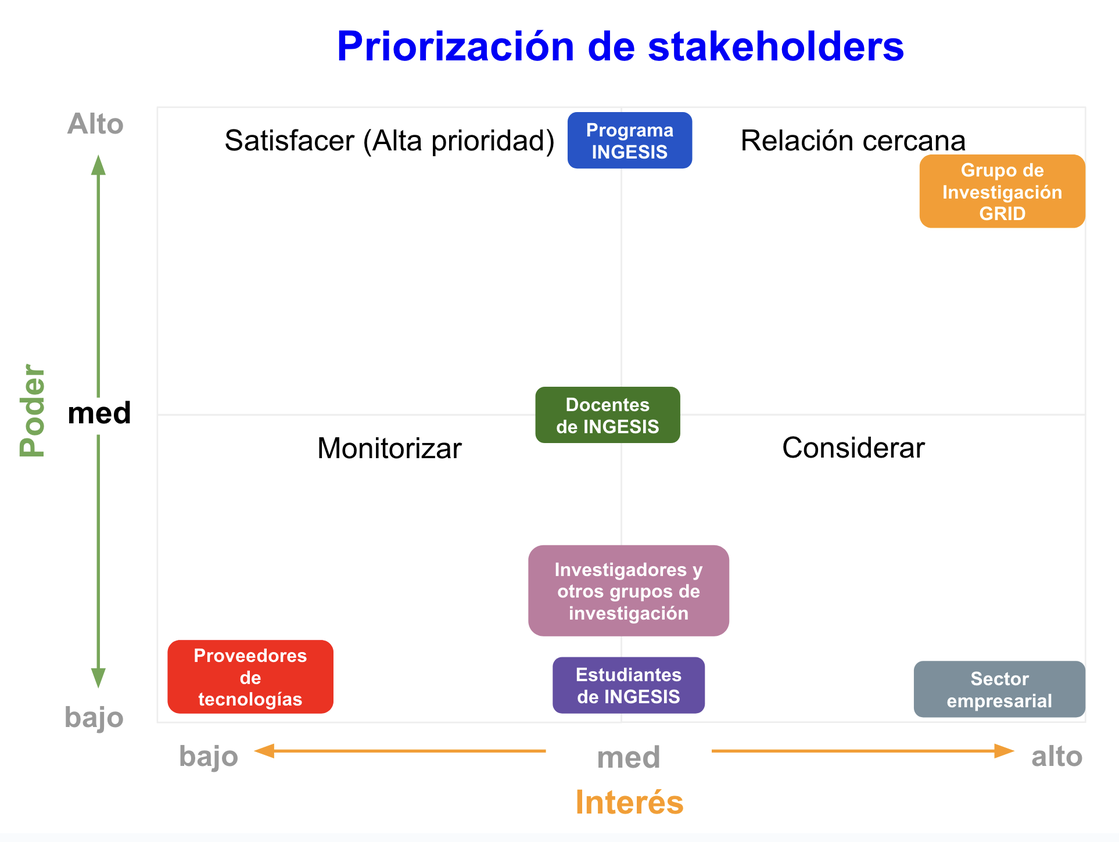
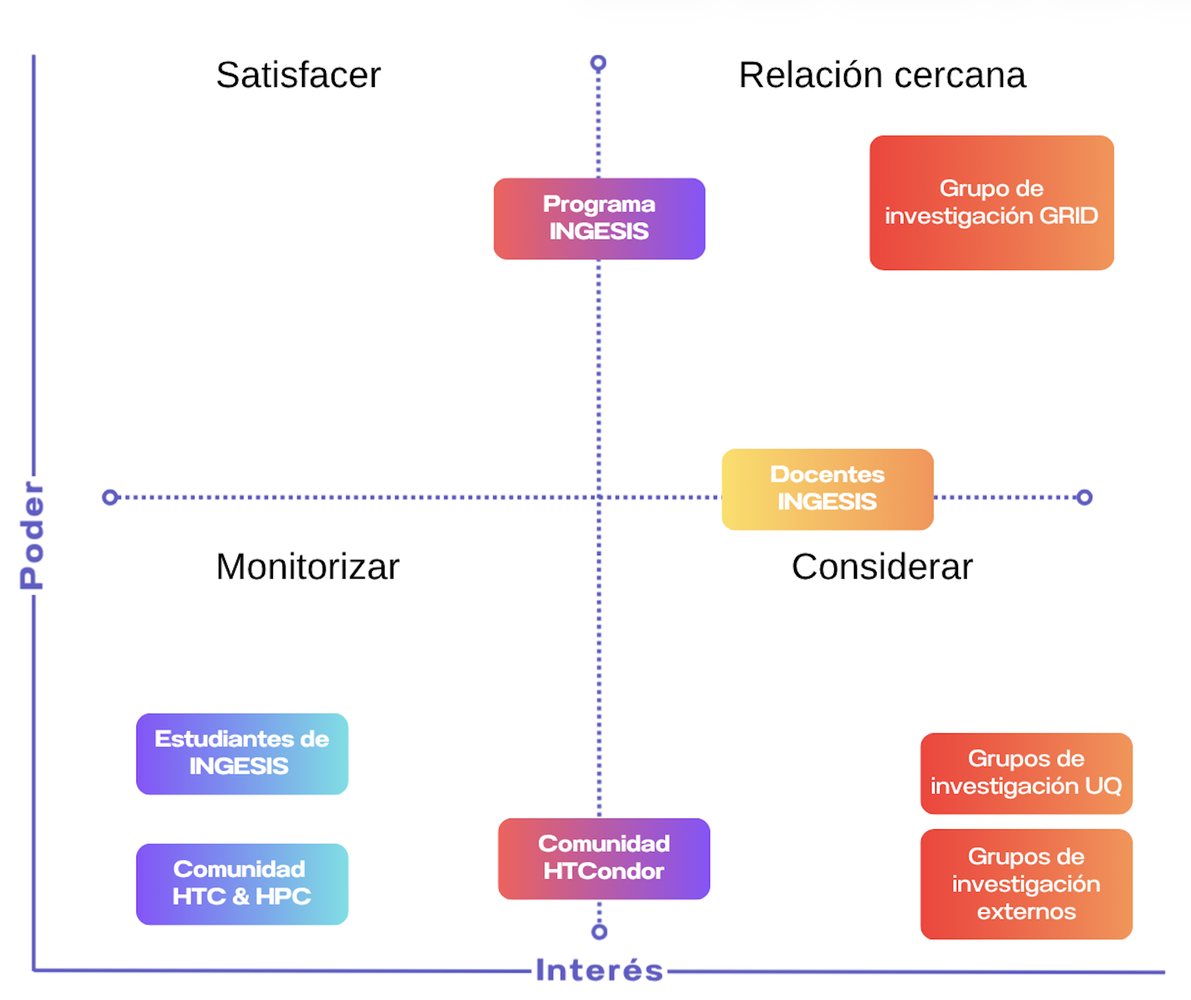
Adelantos en caracterización del GRID

diff --git a/capitulos/desarrolloMetodologico/caracterizacionGRID.tex b/capitulos/desarrolloMetodologico/caracterizacionGRID.tex
@@ -1,11 +1,24 @@
 \ChapterImageStar[cap:caracterizacionGRID]{Caracterización del GRID}{./images/fondo.png}\label{cap:caracterizacionGRID}
 \mbox{}\\
-El Grupo de Investigación en Redes, Información y Distribución (\GRID) de la Universidad del Quindío se enmarca en los objetivos misionales de la institución: educación, investigación y extensión. Su propósito central es impulsar el desarrollo a través de proyectos de investigación aplicada, formación académica y transferencia de conocimiento. En particular, el \GRID\ busca ofrecer servicios tecnológicos avanzados a la comunidad académica, con énfasis en los estudiantes de Ingeniería de Sistemas y Computación, quienes encuentran en este grupo un espacio de formación e innovación en temas de infraestructura, software y tecnologías emergentes.\\
-La caracterización del \GRID\ resulta esencial para comprender su estructura, capacidades y necesidades en relación con la adopción de tecnologías de virtualización basadas en contenedores (\VBC). A continuación, se presenta un análisis de los diferentes aspectos que definen el contexto institucional y tecnológico del grupo.
+\noindent
+El Grupo de Investigación en Redes, Información y Distribución (\GRID) de la Universidad del Quindío se enmarca en los objetivos misionales de la institución: educación, investigación y extensión. Uno del los intereses particulares del \GRID es ofrecer servicios tecnológicos avanzados a la comunidad académica, con énfasis en los estudiantes de Ingeniería de Sistemas y Computación, quienes encuentran en este grupo un espacio de formación e innovación en temas de infraestructura, ingeniería de software y tecnologías emergentes.\\
+La caracterización del \GRID\ resulta esencial para comprender su estructura, capacidades y necesidades en relación con la expansión de un nuevo universo HTCondor. A continuación, se presenta un análisis de los diferentes aspectos que definen el contexto institucional y tecnológico del grupo.
 
 \section{Análisis de stakeholders del GRID}
-Con el fin de identificar los actores internos y externos que influyen en el desarrollo de las actividades del grupo, se realizó un análisis de \textit{stakeholders}. Este ejercicio permitió reconocer los diferentes intereses, roles y niveles de influencia que cada actor tiene en relación con la posible implementación de una solución de virtualización por contenedores. Los principales \textit{stakeholders} identificados incluyen: investigadores del grupo, estudiantes de pregrado y posgrado, docentes de la Facultad de Ingeniería, y en un nivel más amplio, la comunidad académica de la Universidad del Quindío.\\
-La tabla~\ref{tab:stakeholders} presenta el análisis de los principales interesados en la adopción de tecnologías de virtualización dentro del contexto institucional. Se identifican actores internos y externos, especificando su rol, el tipo de relación con el proyecto, el nivel de impacto esperado, así como su poder de influencia, interés y compromiso frente a la iniciativa. Este análisis permite reconocer que el Grupo de Investigación \GRID\ constituye el beneficiario principal y el decisor estratégico, mientras que los docentes y estudiantes de Ingeniería de Sistemas representan usuarios clave y finales que validarán la utilidad de la solución en actividades académicas y de investigación. A nivel institucional, el programa de ingeniería de sistemas y computación actúa como facilitador de recursos y lineamientos, mientras que los proveedores de tecnología aportan las herramientas de virtualización requeridas. De forma complementaria, los investigadores externos y otros grupos de investigación pueden beneficiarse indirectamente de los resultados, y el sector empresarial se perfila como un potencial socio estratégico si percibe ventajas competitivas en la solución.
+\noindent
+Con el fin de identificar los actores internos y externos que influyen en el desarrollo de las actividades del grupo, se realizó un análisis de \textit{stakeholders}. Este ejercicio permitió reconocer los diferentes intereses, roles y niveles de influencia que cada actor tiene en relación con la expansión de un nuevo universo HTCondor. Los principales \textit{stakeholders} identificados incluyen: investigadores del grupo, estudiantes de pregrado y posgrado, docentes de la Facultad de Ingeniería, y en un nivel más amplio, la comunidad académica de la Universidad del Quindío.
+\\
+\noindent
+La tabla~\ref{tab:stakeholders} presenta el análisis de los principales interesados en la expansión de los universos HTCondor dentro del contexto institucional. Se identifican actores internos y externos, especificando su rol, el tipo de relación con el proyecto, el nivel de impacto esperado, así como su poder de influencia, interés y compromiso frente a la iniciativa.
+
+El análisis de interesados revela una estructura compleja de actores con distintos niveles de influencia y compromiso frente al proyecto. El Grupo de Investigación GRID emerge como el interesado crítico, concentrando simultáneamente el mayor impacto, poder de influencia, interés y compromiso. Esta posición central le otorga un rol determinante como beneficiario principal y tomador de decisiones, lo que subraya la necesidad de mantener una comunicación estrecha y continua con este grupo para asegurar la alineación del proyecto con sus expectativas estratégicas y operativas.
+
+Los docentes de Ingeniería de Sistemas y los investigadores locales y externos constituyen el segundo nivel de importancia, caracterizándose por un alto interés en la solución y un potencial significativo como usuarios finales. Aunque su poder de decisión es limitado, su adopción efectiva de la tecnología será fundamental para validar el éxito del proyecto. Este segmento requiere especial atención en términos de usabilidad, documentación y capacitación, dado que su compromiso está condicionado a la utilidad práctica y los beneficios tangibles que puedan obtener. La diferencia principal entre ambos grupos radica en que los investigadores externos representarían el segmento de usuarios más activo e intensivo de la infraestructura.
+
+El Programa de Ingeniería de Sistemas y Computación desempeña un rol estratégico como facilitador institucional con alto poder de influencia, particularmente en la provisión de recursos y la posibilidad de escalar la solución hacia otros programas académicos. Sin embargo, su compromiso relativamente bajo sugiere que será necesario demostrar claramente el valor estratégico e institucional del proyecto para asegurar su respaldo sostenido. Por otro lado, los estudiantes de pregrado presentan bajo impacto, poder e interés debido a la naturaleza especializada de la computación distribuida en el contexto académico de pregrado, lo que los posiciona como beneficiarios secundarios que validarán la solución más por uso ocasional que por dependencia operativa.
+
+Finalmente, la comunidad HTCondor y los investigadores en HTC y HPC representan un interesado externo con una relación simbiótica particular: aunque no tienen poder de decisión sobre el proyecto y su compromiso es bajo, su rol como proveedores de conocimiento técnico es de alto impacto. La documentación y experiencias generadas por el proyecto podrían contribuir al fortalecimiento del ecosistema HTCondor, creando un valor agregado que trasciende los objetivos locales del proyecto. Esta relación sugiere la conveniencia de establecer canales de comunicación con esta comunidad para compartir hallazgos y mejores prácticas.
+
 \input{tablas-images/cp1/definicionStakeholders.tex}
 
 \section{Priorización de stakeholders}
@@ -16,13 +29,13 @@ Una vez realizada la identificación de los \textit{stakeholders}, se emprendió
 \section{Integrantes y áreas de trabajo del GRID}
 El \GRID\ está conformado por un equipo multidisciplinario de investigadores y profesionales que, desde sus diferentes áreas de experticia, contribuyen al avance en campos como computación de alto rendimiento, \textit{big data}, inteligencia artificial, redes de computadoras y desarrollo de software. A continuación, se presenta una lista de los integrantes actuales del grupo, junto con sus respectivas líneas de trabajo y áreas de especialización:
 \begin{itemize}
-  \item \href{https://scienti.minciencias.gov.co/cvlac/visualizador/generarCurriculoCv.do?cod_rh=0000210897}{\underline{{\textbf{Christian Andrés Candela Uribe}}}}: Microservicios, desarrollo de software, minería de datos, infraestructura TI.\@
-  \item \href{https://scienti.minciencias.gov.co/cvlac/visualizador/generarCurriculoCv.do?cod_rh=0001383939}{\underline{{\textbf{Luis Eduardo Sepúlveda Rodríguez}}}}: Infraestructura de TI, HPC, computación paralela.
-  \item \href{https://scienti.minciencias.gov.co/cvlac/visualizador/generarCurriculoCv.do?cod_rh=0001638854}{\underline{{\textbf{Carlos Andrés Flórez Villarraga}}}}: Programación y algoritmia, inteligencia artificial.
-  \item \href{https://scienti.minciencias.gov.co/cvlac/visualizador/generarCurriculoCv.do?cod_rh=0001343801}{\underline{{\textbf{Carlos Eduardo Gómez Montoya}}}}: Redes, ingeniería de software, cloud computing.
-  \item \href{https://scienti.minciencias.gov.co/cvlac/visualizador/generarCurriculoCv.do?cod_rh=0001398775}{\underline{{\textbf{Sergio Augusto Cardona Torres}}}}: Big data y análisis de datos, ingeniería de software, sistemas adaptativos, informática educativa.
-  \item \href{https://scienti.minciencias.gov.co/cvlac/visualizador/generarCurriculoCv.do?cod_rh=0000193550}{\underline{{\textbf{Sonia Jaramillo Valbuena}}}}: Big data, electroquímica, inteligencia artificial.
-  \item \href{https://scienti.minciencias.gov.co/cvlac/visualizador/generarCurriculoCv.do?cod_rh=0000283495}{\underline{{\textbf{Julián Esteban Gutiérrez Posada}}}}: Microservicios, desarrollo de software, minería de datos, infraestructura TI, HPC, computación paralela, redes, ingeniería de software.
+	\item \href{https://scienti.minciencias.gov.co/cvlac/visualizador/generarCurriculoCv.do?cod_rh=0000210897}{\underline{{\textbf{Christian Andrés Candela Uribe}}}}: Microservicios, desarrollo de software, minería de datos, infraestructura TI.\@
+	\item \href{https://scienti.minciencias.gov.co/cvlac/visualizador/generarCurriculoCv.do?cod_rh=0001383939}{\underline{{\textbf{Luis Eduardo Sepúlveda Rodríguez}}}}: Infraestructura de TI, HPC, computación paralela.
+	\item \href{https://scienti.minciencias.gov.co/cvlac/visualizador/generarCurriculoCv.do?cod_rh=0001638854}{\underline{{\textbf{Carlos Andrés Flórez Villarraga}}}}: Programación y algoritmia, inteligencia artificial.
+	\item \href{https://scienti.minciencias.gov.co/cvlac/visualizador/generarCurriculoCv.do?cod_rh=0001343801}{\underline{{\textbf{Carlos Eduardo Gómez Montoya}}}}: Redes, ingeniería de software, cloud computing.
+	\item \href{https://scienti.minciencias.gov.co/cvlac/visualizador/generarCurriculoCv.do?cod_rh=0001398775}{\underline{{\textbf{Sergio Augusto Cardona Torres}}}}: Big data y análisis de datos, ingeniería de software, sistemas adaptativos, informática educativa.
+	\item \href{https://scienti.minciencias.gov.co/cvlac/visualizador/generarCurriculoCv.do?cod_rh=0000193550}{\underline{{\textbf{Sonia Jaramillo Valbuena}}}}: Big data, electroquímica, inteligencia artificial.
+	\item \href{https://scienti.minciencias.gov.co/cvlac/visualizador/generarCurriculoCv.do?cod_rh=0000283495}{\underline{{\textbf{Julián Esteban Gutiérrez Posada}}}}: Microservicios, desarrollo de software, minería de datos, infraestructura TI, HPC, computación paralela, redes, ingeniería de software.
 \end{itemize}
 
 La diversidad de líneas de trabajo de los integrantes fortalece la capacidad del grupo para abordar proyectos de carácter transversal y multidisciplinario, lo cual resulta particularmente relevante para el diseño e implementación de soluciones arquitectónicas soportadas en tecnologías de virtualización.
@@ -31,47 +44,47 @@ La diversidad de líneas de trabajo de los integrantes fortalece la capacidad de
 La misión del GRID es heredada de la Universidad del Quindío. A continuación se presenta la misión del GRID:\@
 
 \begin{quote}
-\textit{La Universidad del Quindío contribuye a la transformación de la sociedad, mediante la formación integral desde el ser, el saber y el hacer, de líderes reflexivos y gestores del cambio; con estándares de calidad, a través de una oferta de formación en diferentes metodologías, que responda a una sociedad basada en el conocimiento; una investigación pertinente, que aporte a la solución de las problemáticas del desarrollo e integrada con la extensión y proyección social; educando en tiempos del posconflicto y de la consolidación de la paz, apoyada en una gestión creativa y con estándares de calidad.}
+	\textit{La Universidad del Quindío contribuye a la transformación de la sociedad, mediante la formación integral desde el ser, el saber y el hacer, de líderes reflexivos y gestores del cambio; con estándares de calidad, a través de una oferta de formación en diferentes metodologías, que responda a una sociedad basada en el conocimiento; una investigación pertinente, que aporte a la solución de las problemáticas del desarrollo e integrada con la extensión y proyección social; educando en tiempos del posconflicto y de la consolidación de la paz, apoyada en una gestión creativa y con estándares de calidad.}
 \end{quote}
 
 A partir de esta misión, se identifican los siguientes pilares fundamentales:
 
 \begin{itemize}
-    \item \textbf{Docencia:} La Universidad del Quindío contribuye a la transformación de la sociedad, mediante la formación integral desde el ser, el saber y el hacer, de líderes reflexivos y gestores del cambio; con estándares de calidad, a través de una oferta de formación en diferentes metodologías, que responda a una sociedad basada en el conocimiento.
+	\item \textbf{Docencia:} La Universidad del Quindío contribuye a la transformación de la sociedad, mediante la formación integral desde el ser, el saber y el hacer, de líderes reflexivos y gestores del cambio; con estándares de calidad, a través de una oferta de formación en diferentes metodologías, que responda a una sociedad basada en el conocimiento.
 
-    \item \textbf{Investigación:} Una investigación pertinente, que aporte a la solución de las problemáticas del desarrollo e integrada con la extensión y proyección social.
+	\item \textbf{Investigación:} Una investigación pertinente, que aporte a la solución de las problemáticas del desarrollo e integrada con la extensión y proyección social.
 
-    \item \textbf{Extensión y Desarrollo Social:} Apoyada en una gestión creativa y con estándares de calidad.
+	\item \textbf{Extensión y Desarrollo Social:} Apoyada en una gestión creativa y con estándares de calidad.
 
-    \item \textbf{Responsabilidad Social:} Educando en tiempos del posconflicto y de la consolidación de la paz.
+	\item \textbf{Responsabilidad Social:} Educando en tiempos del posconflicto y de la consolidación de la paz.
 \end{itemize}
 
 \section{Visión del GRID}
 La misión de la Universidad del Quindío se complementa con su visión institucional, la cual también es adoptada por el \GRID. A continuación se presenta la visión del \GRID:\@
 
 \begin{quote}
-\textit{En el año 2025, la Universidad del Quindío estará consolidada como una institución \textit{Pertinente --- Creativa --- Integradora}, acreditada de alta calidad, con reconocimiento nacional e internacional en sus procesos de formación a través de diferentes metodologías, de investigación, extensión, proyección y responsabilidad social.}
+	\textit{En el año 2025, la Universidad del Quindío estará consolidada como una institución \textit{Pertinente --- Creativa --- Integradora}, acreditada de alta calidad, con reconocimiento nacional e internacional en sus procesos de formación a través de diferentes metodologías, de investigación, extensión, proyección y responsabilidad social.}
 \end{quote}
 
 A partir de esta visión, se destacan los siguientes enfoques estratégicos:
 
 \begin{itemize}
-    \item \textbf{Gestión:} La Universidad del Quindío estará consolidada como una institución \textit{Pertinente --- Creativa --- Integradora}.
+	\item \textbf{Gestión:} La Universidad del Quindío estará consolidada como una institución \textit{Pertinente --- Creativa --- Integradora}.
 
-    \item \textbf{Docencia:} Acreditada de alta calidad en sus procesos de formación a través de diferentes metodologías.
+	\item \textbf{Docencia:} Acreditada de alta calidad en sus procesos de formación a través de diferentes metodologías.
 
-    \item \textbf{Investigación:} Consolidada como pertinente y de alta calidad en sus procesos de investigación.
+	\item \textbf{Investigación:} Consolidada como pertinente y de alta calidad en sus procesos de investigación.
 
-    \item \textbf{Extensión y Desarrollo Social:} Procesos creativos e integradores en proyección social.
+	\item \textbf{Extensión y Desarrollo Social:} Procesos creativos e integradores en proyección social.
 
-    \item \textbf{Responsabilidad Social:} Reconocimientos en sus procesos de responsabilidad social.
+	\item \textbf{Responsabilidad Social:} Reconocimientos en sus procesos de responsabilidad social.
 \end{itemize}
 
 \section{Impacto del proyecto en el GRID}
 
 El proyecto tiene como objetivo apoyar los procesos de docencia, investigación
-y extensión mediante la especificación de una arquitectura de tecnologías de 
-virtualización basada en contenedores (\VBC). 
+y extensión mediante la especificación de una arquitectura de tecnologías de
+virtualización basada en contenedores (\VBC).
 Este trabajo se enfoca en la identificación de una tecnología de contenerización que \textbf{agregue valor a los procesos del grupo}, beneficiando a docentes, estudiantes y cualquier parte interesada que participe en los proyectos y actividades desarrolladas por este grupo de investigación.
 
 \section{Caracterización de la infraestructura tecnológica del GRID}
@@ -87,58 +100,58 @@ El \GRID\ ofrece una variedad de servicios tecnológicos a la comunidad académi
 Los servicios actuales del GRID se centran en la provisión de infraestructura de \TI\, incluyendo máquinas virtuales, almacenamiento y redes. Estos servicios son utilizados principalmente por estudiantes y docentes, los cuales se especifican en el cuadro~\ref{tab:servicios-actuales}.
 
 \begin{table}[H]
-\centering
-\renewcommand{\arraystretch}{1.2}
-\setlength{\tabcolsep}{3pt}
-\tiny
-\begin{tabularx}{\textwidth}{|>{\raggedright\arraybackslash}p{0.25\textwidth}|X|}
-\hline
-\textbf{NOMBRE DEL SERVICIO} & Máquinas Virtuales para estudiantes y docentes \\
-\hline
-\textbf{TIPO DE SERVICIO} & Servicio educativo \\
-\hline
-\textbf{PROPÓSITO} & Proveer máquinas virtuales a profesores, estudiantes y administrativos para prácticas académicas mediante XCP-ng. \\
-\hline
-\textbf{HORARIO DISPONIBILIDAD} & 24/7 \\
-\hline
-\textbf{TIEMPO FUNCIONAMIENTO} & 3 años \\
-\hline
-\textbf{RECURSOS} & Servidores torre y rack \\
-\hline
-\textbf{TECNOLOGÍAS} & Hipervisor tipo I (XCP-ng) \\
-\hline
-\textbf{IMPACTO} & Indisponibilidad afecta actividades misionales del grupo de investigación y programa de Ingeniería de sistemas. \\
-\hline
-\end{tabularx}
-\caption{Caracterización de los servicios actuales del GRID}\label{tab:servicios-actuales}
+	\centering
+	\renewcommand{\arraystretch}{1.2}
+	\setlength{\tabcolsep}{3pt}
+	\tiny
+	\begin{tabularx}{\textwidth}{|>{\raggedright\arraybackslash}p{0.25\textwidth}|X|}
+		\hline
+		\textbf{NOMBRE DEL SERVICIO}    & Máquinas Virtuales para estudiantes y docentes                                                                    \\
+		\hline
+		\textbf{TIPO DE SERVICIO}       & Servicio educativo                                                                                                \\
+		\hline
+		\textbf{PROPÓSITO}              & Proveer máquinas virtuales a profesores, estudiantes y administrativos para prácticas académicas mediante XCP-ng. \\
+		\hline
+		\textbf{HORARIO DISPONIBILIDAD} & 24/7                                                                                                              \\
+		\hline
+		\textbf{TIEMPO FUNCIONAMIENTO}  & 3 años                                                                                                            \\
+		\hline
+		\textbf{RECURSOS}               & Servidores torre y rack                                                                                           \\
+		\hline
+		\textbf{TECNOLOGÍAS}            & Hipervisor tipo I (XCP-ng)                                                                                        \\
+		\hline
+		\textbf{IMPACTO}                & Indisponibilidad afecta actividades misionales del grupo de investigación y programa de Ingeniería de sistemas.   \\
+		\hline
+	\end{tabularx}
+	\caption{Caracterización de los servicios actuales del GRID}\label{tab:servicios-actuales}
 \end{table}
 
 \subsection{Servicios esperados}
 Los servicios esperados por el GRID se orientan al aprovisionamiento de contenedores a traves de tecnologias VBC. Se espera que los usuarios de distintos dominios ( educación, investigación, extensión ) puedan beneficiarse de este nuevo servicio que se especifica en el cuadro ~\ref{tab:servicios-esperados}
 
 \begin{table}[H]
-\centering
-\renewcommand{\arraystretch}{1.2}
-\setlength{\tabcolsep}{3pt}
-\tiny
-\begin{tabularx}{\textwidth}{|>{\raggedright\arraybackslash}p{0.25\textwidth}|X|}
-\hline
-\textbf{NOMBRE DEL SERVICIO} & Ambientes computacionales basados en \VBC\\
-\hline
-\textbf{TIPO DE SERVICIO} & Servicio de educación, investigación y extensión \\
-\hline
-\textbf{PROPÓSITO} & Proveer ambientes computacionales mediante tecnologías \VBC\ y mecanismo de orquestación \\
-\hline
-\textbf{HORARIO DISPONIBILIDAD} & 24/7 \\
-\hline
-\textbf{RECURSOS} & Servidores torre y rack \\
-\hline
-\textbf{TECNOLOGÍAS} & Por determinar \\
-\hline
-\textbf{IMPACTO} & Indisponibilidad afecta actividades misionales del grupo de investigación y programa de Ingeniería de sistemas. \\
-\hline
-\end{tabularx}
-\caption{Caracterización de los servicios esperados del GRID}\label{tab:servicios-esperados}
+	\centering
+	\renewcommand{\arraystretch}{1.2}
+	\setlength{\tabcolsep}{3pt}
+	\tiny
+	\begin{tabularx}{\textwidth}{|>{\raggedright\arraybackslash}p{0.25\textwidth}|X|}
+		\hline
+		\textbf{NOMBRE DEL SERVICIO}    & Ambientes computacionales basados en \VBC                                                                       \\
+		\hline
+		\textbf{TIPO DE SERVICIO}       & Servicio de educación, investigación y extensión                                                                \\
+		\hline
+		\textbf{PROPÓSITO}              & Proveer ambientes computacionales mediante tecnologías \VBC\ y mecanismo de orquestación                        \\
+		\hline
+		\textbf{HORARIO DISPONIBILIDAD} & 24/7                                                                                                            \\
+		\hline
+		\textbf{RECURSOS}               & Servidores torre y rack                                                                                         \\
+		\hline
+		\textbf{TECNOLOGÍAS}            & Por determinar                                                                                                  \\
+		\hline
+		\textbf{IMPACTO}                & Indisponibilidad afecta actividades misionales del grupo de investigación y programa de Ingeniería de sistemas. \\
+		\hline
+	\end{tabularx}
+	\caption{Caracterización de los servicios esperados del GRID}\label{tab:servicios-esperados}
 \end{table}
 
 \section{Descripción de la oportunidad}
@@ -158,11 +171,11 @@ Las tecnologías de \VBC\ representan una opción de virtualización que requier
 Para comprender mejor las necesidades y expectativas del \GRID\, se realizó una entrevista con el cliente.
 
 \begin{itemize}
-  \item \textbf{Entrevistado:} Luis Eduardo Sepúlveda Rodríguez
-  \item \textbf{Fecha:} 6 de febrero de 2025
-  \item \textbf{Duración:} 25 minutos
-  \item \textbf{Link:} \href{https://drive.google.com/file/d/1rIc9xOsyDqumlTV-QXcw0inPyIbSEHLz/view?usp=sharing}{click aquí}
-  \item \textbf{Asistentes:} Anubis Haxard Correa Urbano, José Alejandro Arias Pinzón
+	\item \textbf{Entrevistado:} Luis Eduardo Sepúlveda Rodríguez
+	\item \textbf{Fecha:} 6 de febrero de 2025
+	\item \textbf{Duración:} 25 minutos
+	\item \textbf{Link:} \href{https://drive.google.com/file/d/1rIc9xOsyDqumlTV-QXcw0inPyIbSEHLz/view?usp=sharing}{click aquí}
+	\item \textbf{Asistentes:} Anubis Haxard Correa Urbano, José Alejandro Arias Pinzón
 \end{itemize}
 
 \subsection{Misión del grupo \GRID}

diff --git a/tablas-images/cp1/definicionStakeholders.tex b/tablas-images/cp1/definicionStakeholders.tex
@@ -1,32 +1,31 @@
 \begin{table}[H]
-\centering
-\scriptsize % reduce el tamaño de la letra en 2 puntos aprox.
-\renewcommand{\arraystretch}{1.3} % espacio entre filas
-\begin{tabularx}{\textwidth}{%
-    >{\raggedright\arraybackslash}X
-    >{\raggedright\arraybackslash}X
-    >{\raggedright\arraybackslash}X
-    >{\raggedright\arraybackslash}X
-    >{\raggedright\arraybackslash}X
-    >{\raggedright\arraybackslash}X
-    >{\raggedright\arraybackslash}X}
-\toprule
-\textbf{Interesado} & \textbf{Rol} & \textbf{Relación} & \textbf{Impacto} & \textbf{Poder de influencia} & \textbf{Interés} & \textbf{Compromiso} \\
-\midrule
-Grupo de Investigación GRID & Beneficiario principal & Provee infraestructura, evalúa la solución y su impacto & Alto & Alto, decide la adopción de la tecnología & Alto, busca mejorar sus servicios & Alto, ya que su infraestructura será potenciada \\
-\midrule
-Docentes de Ingeniería de Sistemas & Usuarios clave & Harán uso de los entregables para proyectos y enseñanza & Medio-Alto & Medio, pueden sugerir mejoras pero no decidir implementación & Medio-Alto, esperan decisiones sobre tecnología para enseñanza e investigación & Medio, dependerá de la utilidad de la solución \\
-\midrule
-Estudiantes de Ingeniería de Sistemas & Usuarios finales & Usarán los servicios en sus cursos y proyectos. Podrán informarse sobre el estudio. & Medio & Bajo, no tienen poder de decisión, pero su uso validará la solución & Alto, necesitan un entorno estable y eficiente & Medio-Alto, dependiendo de la accesibilidad y usabilidad \\
-\midrule
-Programa de ingeniería de sistemas y computación & Facilitador & Puede apoyar con recursos y normativas para la adopción & Alto & Alto, puede aprobar recursos & Medio, su interés es institucional y estratégico & Bajo-Medio, si la solución no afecta directamente a su gestión \\
-\midrule
-Proveedores de tecnología (Docker, Kubernetes, etc.) & Proveedores de herramientas & Proveen la tecnología de virtualización a utilizar & Bajo & Bajo, la decisión de uso recae en el GRID y la universidad & Bajo aunque buscan ampliar su base de usuarios & Bajo, su involucramiento es indirecto \\
-\midrule
-Investigadores y otros grupos de investigación & Potenciales beneficiarios & Pueden usar los resultados en búsqueda de mejoras para sus proyectos & Medio & Medio, pueden influir con solicitudes de mejora & Medio, dependiendo de su relación con GRID & Bajo, solo si ven beneficios concretos \\
-\midrule
-Sector empresarial & Potencial inversor o socio & Podría apoyar la solución si ve ventajas en la adopción de TVBC & Bajo-Medio & Bajo, no decide en la universidad, pero puede ofrecer incentivos & Bajo-Medio, si la tecnología ofrece valor comercial & Bajo, depende de la alineación con sus intereses \\
-\bottomrule
-\end{tabularx}
-\caption{Análisis de stakeholders}\label{tab:stakeholders}
+	\centering
+	\fontsize{7}{7}\selectfont % Cambia el primer número (9) al tamaño deseado, el segundo es el interlineado
+	\setlength{\tabcolsep}{3pt} % reduce el espacio horizontal entre columnas
+	\renewcommand{\arraystretch}{1.4} % espacio entre filas
+	\begin{tabularx}{\textwidth}{%
+		>{\raggedright\arraybackslash}p{1.7cm}  % Columna 1: Interesado
+		>{\raggedright\arraybackslash}p{1.5cm}    % Columna 2: Rol
+		>{\raggedright\arraybackslash}p{2.3cm}  % Columna 3: Relación
+		>{\raggedright\arraybackslash}p{1.4cm}  % Columna 4: Impacto
+		>{\raggedright\arraybackslash}p{2.0cm}  % Columna 5: Poder de influencia
+		>{\raggedright\arraybackslash}p{2.5cm}    % Columna 6: Interés
+		>{\raggedright\arraybackslash}p{2.0cm}} % Columna 7: Compromiso
+		\toprule
+		\textbf{Interesado}                              & \textbf{Rol}                               & \textbf{Relación}                                                                                                                                      & \textbf{Impacto} & \textbf{Poder de influencia}                                                                                            & \textbf{Interés}                                                                                                                          & \textbf{Compromiso}                                                                                \\
+		\midrule
+		Docentes de Ingeniería de Sistemas               & Usuarios clave                             & Utilizarán los entregables del proyecto en actividades de enseñanza e investigación                                                                    & Medio-Alto       & Medio, pueden proponer mejoras pero no tienen poder de decisión sobre la implementación                                 & Medio-Alto, requieren soliuciones tecnológicas para integrarlas en procesos académicos e investigativos                                   & Medio, condicionado a la utilidad práctica y aplicabilidad de la solución                          \\
+		\midrule
+		Estudiantes de Ingeniería de Sistemas            & Beneficiarios potenciales                  & Podrían utilizar la infraestructura en proyectos académicos y acceder a información sobre el estudio                                                   & Bajo             & Bajo, carecen de poder de decisión aunque su adopción validará la efectividad de la solución                            & Bajo, dado que la computación distribuida es un área especializada con uso poco frecuente en el contexto académico general                & Bajo                                                                                               \\
+		\midrule
+		Grupo de Investigación GRID                      & Beneficiario principal                     & Proporciona la infraestructura base, evalúa la solución propuesta y mide su impacto                                                                    & Alto             & Alto, tiene autoridad para decidir la adopción e implementación de la tecnología                                        & Alto, busca optimizar sus servicios y fortalecer su posicionamiento en el ámbito de la investigación y la colaboración interuniversitaria & Alto, la solución potenciará directamente sus capacidades de infraestructura                       \\
+		\midrule
+		Grupos de Investigación Locales y Externos       & Beneficiarios principales                  & Identificarían oportunidades significativas para potenciar sus líneas de investigación                                                                 & Medio            & Medio-Bajo, pueden influir mediante solicitudes específicas de funcionalidades o mejoras                                & Alto, la solución podría reducir significativamente los tiempos de procesamiento y obtención de resultados en sus proyectos               & Medio-Alto, conformarían uno de los segmentos principales de usuarios finales                      \\
+		\midrule
+		Programa de Ingeniería de Sistemas y Computación & Facilitador institucional                  & Puede proveer respaldo institucional, recursos y normativas que faciliten la adopción                                                                  & Alto             & Alto, posee autoridad para aprobar asignación de recursos e invitar a otros programas académicos a utilizar la solución & Medio, su interés se centra en aspectos institucionales y estratégicos más que operativos                                                 & Bajo-Medio, especialmente si la solución no impacta directamente sus procesos de gestión académica \\
+		\midrule
+		Comunidad HTCondor e investigadores en HTC y HPC & Proveedores y consumidores de conocimiento & Suministran documentación técnica esencial para la implementación y se benefician de la documentación generada a partir de la experiencia del proyecto & Alto             & Bajo, no participan en decisiones sobre el proyecto                                                                     & Bajo-Medio, la implementación exitosa fortalecería la adopción de HTCondor y ampliaría el impacto de la tecnología                        & Bajo, sujeto a la alineación de resultados con sus objetivos comunitarios                          \\
+		\bottomrule
+	\end{tabularx}
+	\caption{Análisis de stakeholders}\label{tab:stakeholders}
 \end{table}

diff --git a/capitulos/glosario.tex b/capitulos/glosario.tex
@@ -44,7 +44,14 @@ En este apartado se encuentran términos clave y conceptos relevantes utilizados
 
 \section*{M}
 \begin{description}
-	\item[\textit{Message Passing Interface} (MPI):] Según \cite{Nielsen2016}, \MPI es una interfaz de programación de aplicaciones (API) estandarizada que proporciona rutinas básicas para construir programas paralelos mediante el intercambio de datos a través del envío y recepción de mensajes entre procesos. De acuerdo al autor, esta interfaz abstrae los detalles complejos de implementación de procedimientos de red, permitiendo a los programadores desarrollar código paralelo de manera más sencilla y portable, siendo independiente del lenguaje de programación utilizado, por lo que puede emplearse con C, C++, Java, Fortran, Python, entre otros. Su principal ventaja es garantizar la interoperabilidad y portabilidad del código fuente entre diferentes sistemas y plataformas de cómputo paralelo. \end{description}
+	\item[\textit{Message Passing Interface} (MPI):] Según \cite{Nielsen2016}, \MPI es una interfaz de programación de aplicaciones (API) estandarizada que proporciona rutinas básicas para construir programas paralelos mediante el intercambio de datos a través del envío y recepción de mensajes entre procesos. De acuerdo al autor, esta interfaz abstrae los detalles complejos de implementación de procedimientos de red, permitiendo a los programadores desarrollar código paralelo de manera más sencilla y portable, siendo independiente del lenguaje de programación utilizado, por lo que puede emplearse con C, C++, Java, Fortran, Python, entre otros. Su principal ventaja es garantizar la interoperabilidad y portabilidad del código fuente entre diferentes sistemas y plataformas de cómputo paralelo.
+\end{description}
+
+\section*{S}
+\begin{description}
+	\item[\textit{Stakeholder}:] Según el \cite{PMI2019}, un \textit{stakeholder} es todo aquel individuo, grupo u organización que puede afectar, verse afectado por, o percibir que es afectado por una decisión, actividad o resultado de un proyecto, programa o portafolio.
+\end{description}
+
 
 \section*{T}
 \begin{description}

diff --git a/main.tex b/main.tex
@@ -53,9 +53,9 @@
 %\input{capitulos/metodologia.tex}
 %\input{capitulos/marcoConceptual.tex}
 %\input{capitulos/marcoTeorico.tex}
-\input{capitulos/desarrolloMetodologico.tex}
+%\input{capitulos/desarrolloMetodologico.tex}
 
-%\input{capitulos/desarrolloMetodologico/caracterizacionGRID.tex}
+\input{capitulos/desarrolloMetodologico/caracterizacionGRID.tex}
 %\input{capitulos/desarrolloMetodologico/mapeoSMS.tex}
 %\input{capitulos/desarrolloMetodologico/caracterizacionVBC.tex}
 %\input{capitulos/benchmarking.tex}

diff --git a/tablas-images/cp1/priorizacionStakeholders.tex b/tablas-images/cp1/priorizacionStakeholders.tex
@@ -1,5 +1,6 @@
 \begin{figure}[H]
-    \centering
-    \includegraphics[width=\textwidth] {tablas-images/cp1/priorizacionStakeholders.png}
-    \caption{Priorización de stakeholders del proyecto}\label{fig:tabla-priorizacion-stakeholders}
+	\centering
+	\includegraphics[scale=0.4] {tablas-images/cp1/priorizacionStakeholders.png}
+	\caption{Priorización de stakeholders del proyecto}
+	\label{fig:tabla-priorizacion-stakeholders}
 \end{figure}
